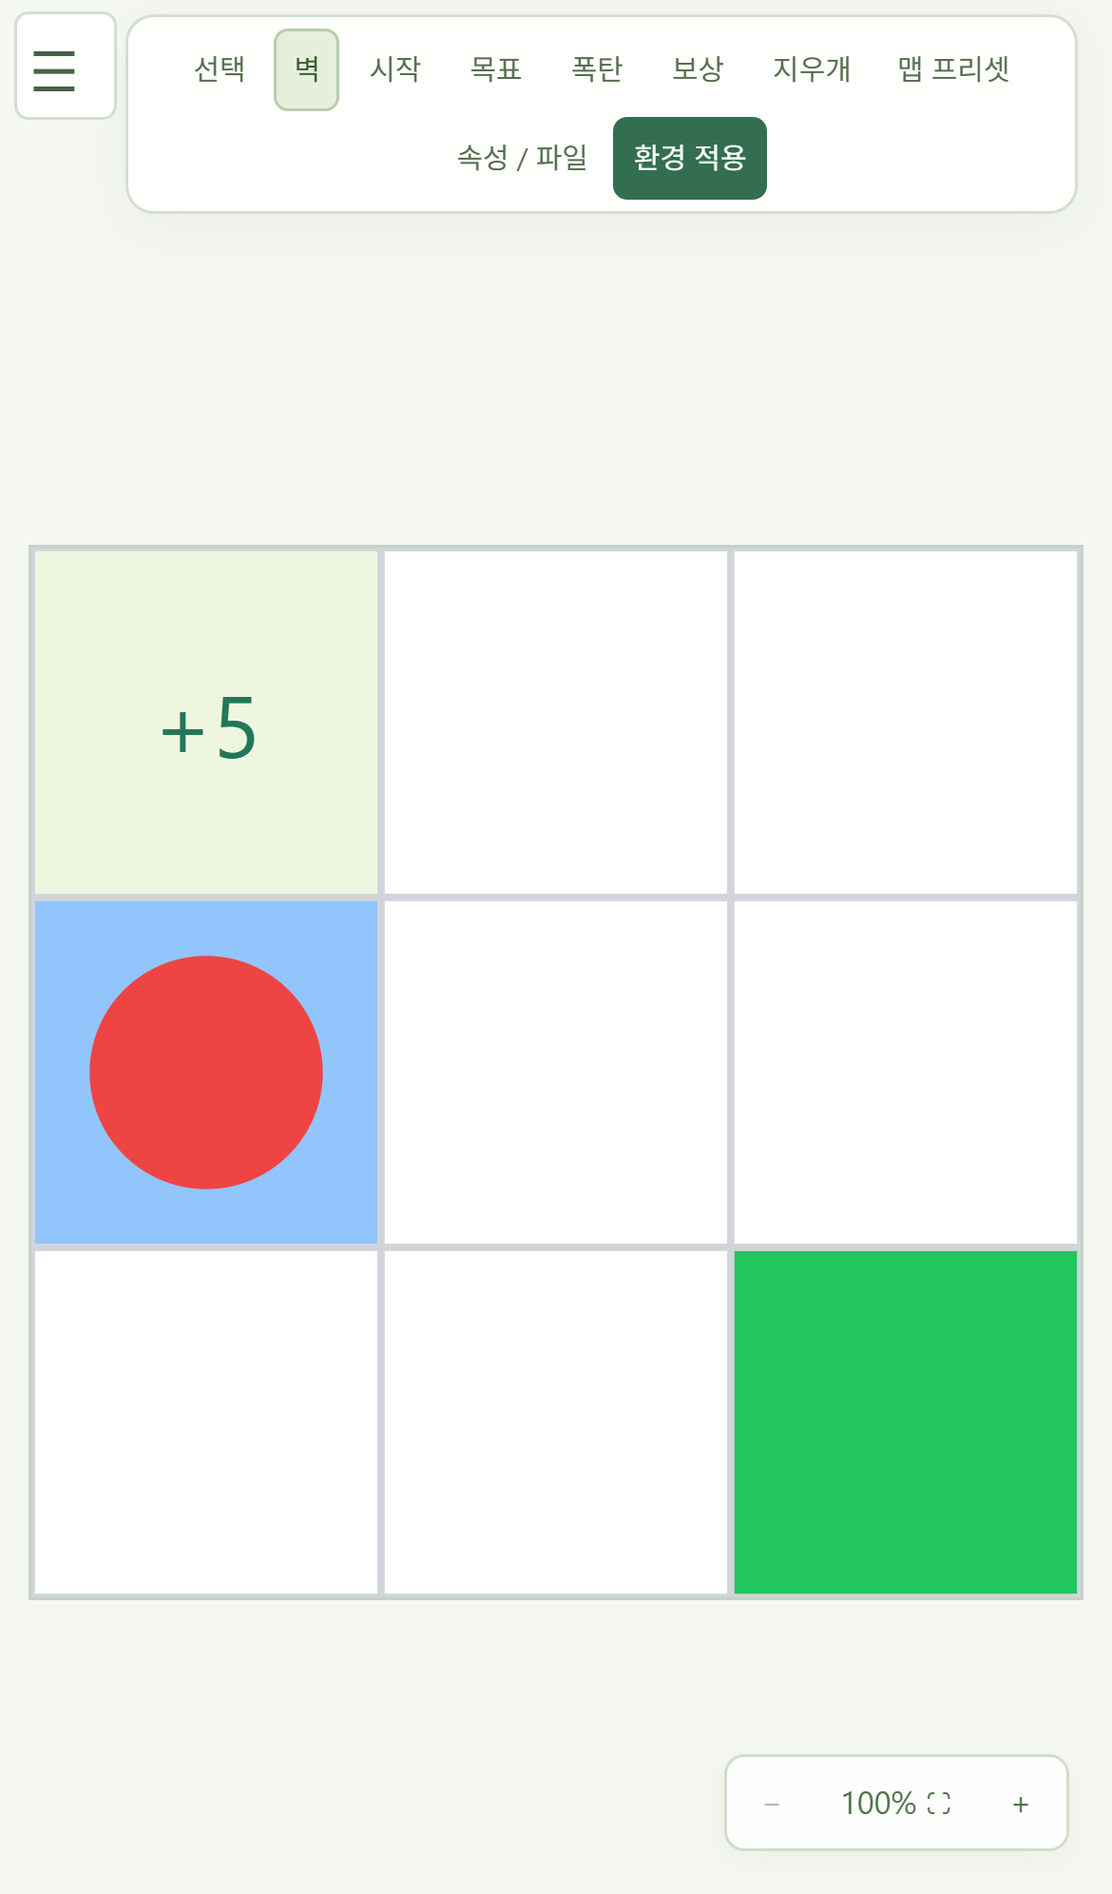
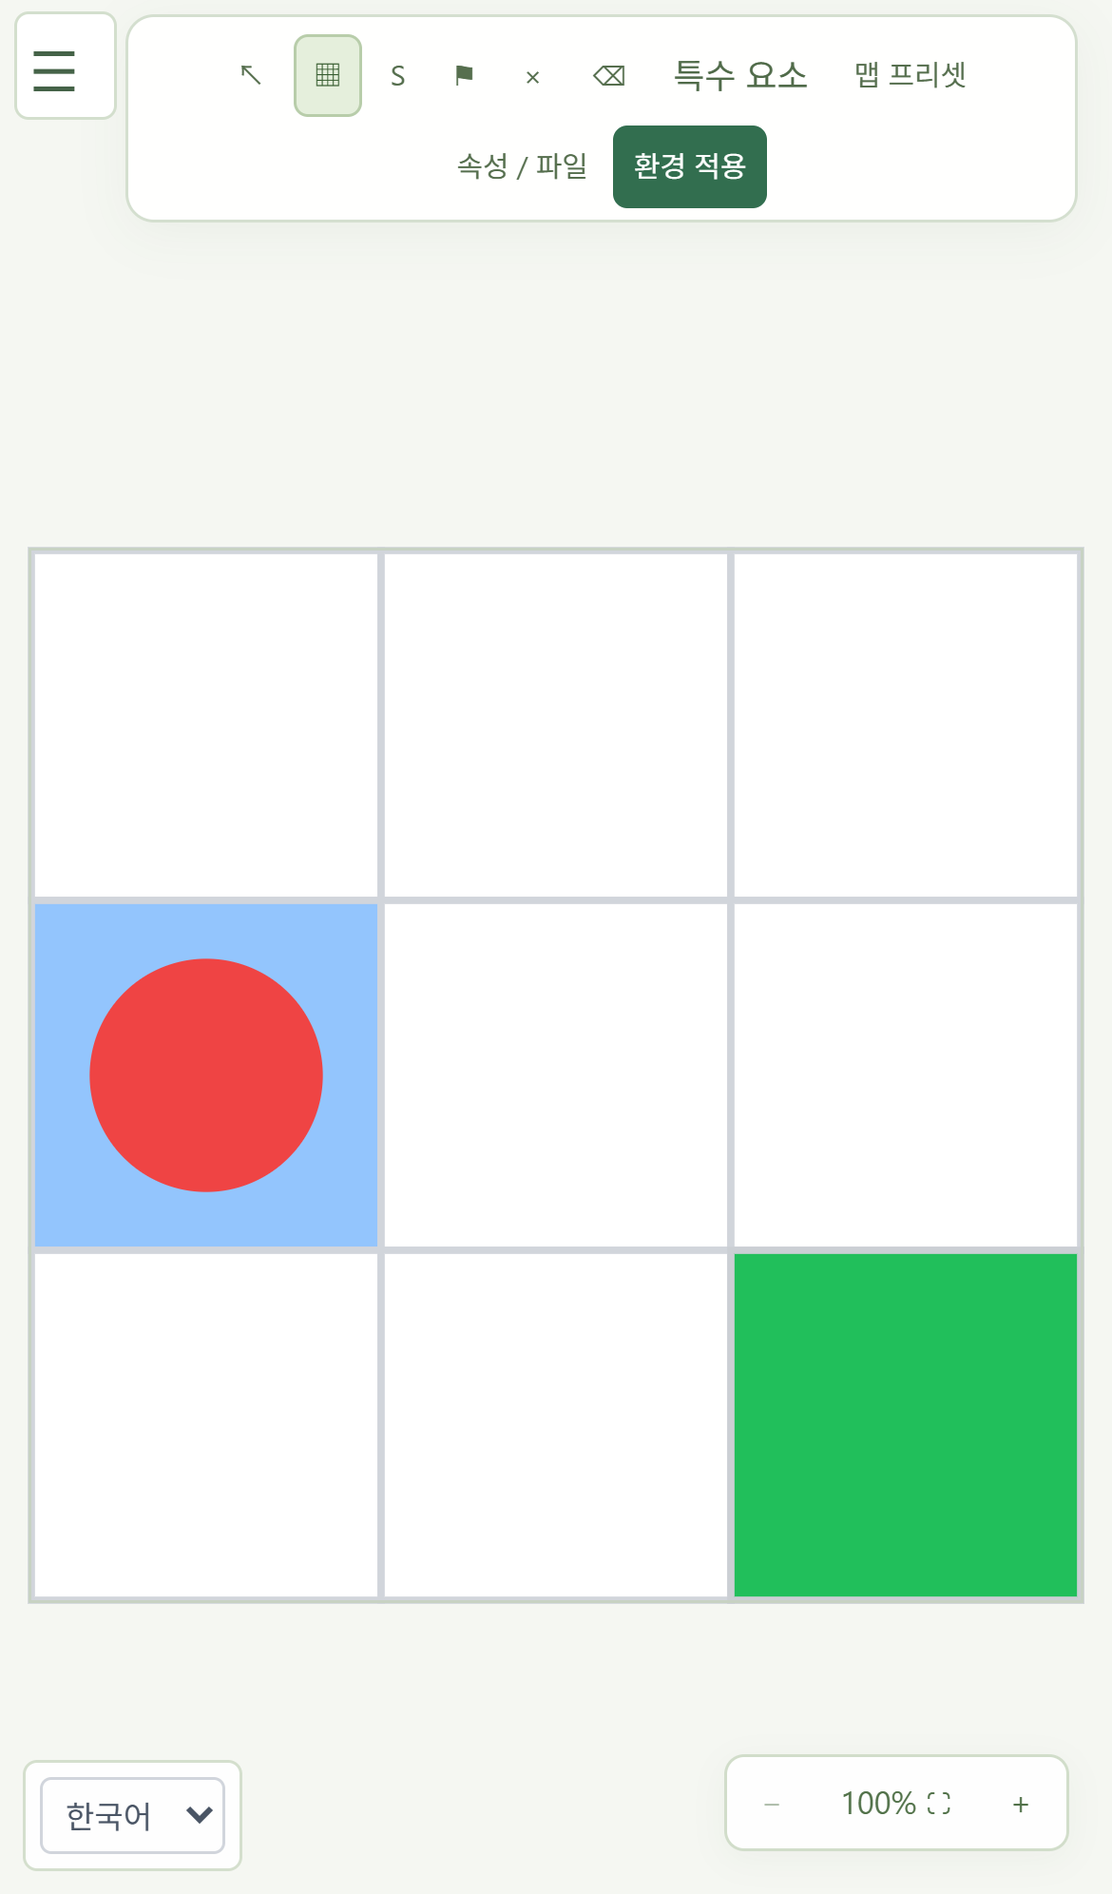
docs: record environment rules validation and browser evidence

diff --git a/docs/ENVIRONMENT_EXPANSION.md b/docs/ENVIRONMENT_EXPANSION.md
@@ -1,0 +1,192 @@
+# 환경 시스템 확장 및 UI 개선
+
+검증일: 2026-10-25. 작업 브랜치: `feat/home-redesign`. 시작 커밋: `d6701f6`.
+기존 React/Vite UI, GridWorldEnv, SimulationEngine/Scheduler 및 Q-Learning/SARSA를 확장했다.
+
+## 1. 전체 변경 사항
+
+- Reward Tile 기능을 제거하고, 해당 데이터가 남아 있는 파일에는 명시적인 오류를 표시한다.
+- 셀 선택은 평면 직각 테두리, 키보드 포커스는 별도의 파란 테두리로 표시한다.
+- 언어 선택기는 데스크톱 사이드바 하단, 모바일 고정 영역에 하나만 표시한다.
+- Portal, One-way, Fragile, Switch/Toggle Wall을 실제 환경 전이부터 편집·저장·학습·시각화까지 연결했다.
+- 기존 11개 프리셋을 보존하고 설계된 신규 프리셋 5개를 추가했다.
+- 전체 화면 격자, 플로팅 실행/편집 툴바, 속도 슬라이더, 확대·축소·내부 패닝, 분석 드로어를 유지한다.
+- 화면·언어 전환 및 패널 토글은 Simulator를 재생성하지 않는다. 학습 상태와 편집 초안은 유지한다. 새 환경 적용은 기존 안내 후 실험을 초기화한다.
+
+주요 변경 파일:
+
+| 영역 | 파일 |
+|---|---|
+| 타입·전이·검증 | `src/core/environments/gridworld/{types.ts,GridWorldEnv.ts,features.ts}`, `src/core/types/render.ts` |
+| 편집·직렬화·프리셋 | `src/viz/controls/{EnvEditor.tsx,envEditorDraft.ts,envEditorIO.ts,MapGallery.tsx,environmentPresets.ts}` |
+| 렌더·정책·가치 | `src/viz/grid/{GridSvg.tsx,FeatureOverlay.tsx,stateKey.ts,visibleQEntries.ts,PolicyOverlay.tsx,ValueHeatmap.tsx}`, `src/viz/panels/QValueBars.tsx` |
+| 고정 UI·성능 | `src/ui/{App.tsx,i18n.ts}`, `src/ui/hooks/useSimulationEngine.ts`, `src/index.css` |
+| 검증 | 환경 요소별 테스트, `featureEditor.test.tsx`, `expandedPresets.test.ts`, `dynamicState.test.tsx`, `src/test/solveGrid.ts`, `e2e/home.spec.ts` |
+
+## 2. Reward Tile 제거
+
+`GridWorldConfig.rewardTiles`, 보상 합산, 렌더 모델의 `cellRewards`, 타일 SVG, 편집 도구·수치 입력·초안·export 필드를 제거했다. 이전 보고서의 전용 기능 설명과 오래된 스크린샷도 갱신했다.
+
+`rewardTiles`라는 문자열이 남는 곳은 호환성 경계와 그 오류 안내/테스트다. 비어 있지 않은 배열이나 잘못된 형식은 엔진 생성 및 JSON import 양쪽에서 거절한다. 빈 배열은 허용하지만 다시 내보내지 않는다. 조용히 삭제하거나 Goal로 변환하지 않는다.
+
+Goal의 기존 수집·보상 분기는 유지했다. 여러 Goal, 최초 방문 보상 1회, 수집 후 숨김, 모든 Goal 수집 시 정상 종료, 새 에피소드 복원 및 `goalReward/stepReward/wallPenalty/bombPenalty`를 보존했다. Goal 비트 연산만 BigInt로 바꾸어 32개를 넘는 기존 맵에서도 비트가 겹치지 않게 했다.
+
+## 3. UI 변경 전후
+
+### 셀 선택
+
+기존 SVG 선택 테두리에 브라우저의 SVG focus outline이 함께 나타나고, 확대 배율에 따라 stroke가 커질 수 있었다. 해당 SVG 셀의 native outline을 제거하고 선택 사각형에 `rx=0`, `strokeWidth=2.5`, `vectorEffect="non-scaling-stroke"`를 적용했다. 키보드 `:focus-visible`에는 파란색 2px 비확대 stroke를 남겼다. 일반 입력·버튼의 포커스 표시는 유지한다. hover는 약한 밝기 변화만 사용한다.
+
+### 언어 선택
+
+상단 중복 선택기를 제거했다. 데스크톱 사이드바는 flex column이며 선택 영역에 `margin-top:auto`를 적용하고 메뉴 영역만 필요 시 스크롤한다. 축소 상태에서도 작은 선택기를 사용할 수 있다. 모바일은 왼쪽 아래 고정 선택기를 사용하고, 사이드바 드로어가 열리면 드로어 내부 선택기만 보인다. 어느 화면에서도 실제 보이는 선택기는 하나다. 다섯 메뉴·사이드바 축소·한국어/영어 전환을 브라우저에서 확인했다.
+
+### 편집기
+
+기본 도구는 접근성 이름이 있는 아이콘으로 유지한다. 추가 도구는 ‘특수 요소’ 팝오버에 모으고, 속성 영역에서 Portal ID, 그룹 ID, 방향을 지정한다. 선택한 포털/그룹의 연결을 점선으로 표시한다. 다른 ID는 색상과 텍스트로 구분한다. ID는 영문 대소문자·숫자·밑줄·하이픈 1–24자다.
+
+배치·삭제·ID/방향 변경, 키보드 셀 선택 및 적용/다운로드를 지원한다. 불완전한 포털이나 그룹은 초안으로 남지만 적용·내보내기는 막는다. 크기를 줄이면 범위 밖 요소를 자르되 남은 불완전 연결을 임의로 복구하지 않고 오류로 알린다. 진행 중 동적 벽을 고정 벽으로 저장하지 않도록 초안은 초기 `staticWalls`와 `features`에서 생성한다.
+
+## 4. 환경 요소의 정확한 규칙
+
+| 요소 | 전이 및 복원 |
+|---|---|
+| Portal | 고유 ID와 정확히 두 끝점. 진입 시 반대 끝점으로 한 번 이동하며 도착점에서 연쇄 발동하지 않는다. 최종 위치가 nextState이며 한 행동의 기본 이동 보상만 계산한다. |
+| One-way | 현재 타일에서 지정 방향으로 떠나는 행동만 허용한다. 다른 방향은 제자리와 wallPenalty. 외부에서 진입하는 방향은 제한하지 않는다. 영구적인 지형이다. |
+| Fragile | 진입 시 통과 가능하다. 실제로 다른 셀로 떠난 뒤 원래 타일이 붕괴한다. 벽·경계 충돌 때는 붕괴하지 않는다. 붕괴 타일 진입은 wallPenalty로 차단하며 에피소드 reset에서 복원한다. |
+| Switch / Toggle Wall | 그룹마다 최소 하나의 스위치와 벽이 필요하다. 기본 닫힘. 스위치로 실제 진입할 때만 그룹이 반전된다. 제자리 충돌은 반전하지 않고, 나갔다 재진입하면 다시 반전한다. 여러 스위치·벽과 독립 그룹을 지원한다. reset에서 모두 닫힌다. |
+
+특수 요소와 다른 특수 요소, Start, Goal, 고정 Wall, Bomb의 좌표 중복을 거절한다. 따라서 스위치에 선 에이전트의 셀에 토글 벽이 닫히지 않는다. 열린 벽·닫힌 벽, 멀쩡한 바닥·붕괴 바닥은 평면 색상/기호로 구분하며 과도한 파편 애니메이션은 없다.
+
+새 요소 자체는 종료 조건이 아니다. 정상 완료는 모든 Goal 수집이고, 기존 Bomb 실패 종료 및 기존 엔진 종료 조건은 유지한다.
+
+## 5. Markov 상태 및 상태 공간
+
+정적 맵(Portal/One-way만 있는 맵 포함)은 기존 `x,y,goalMask` 형식을 유지한다. goalMask는 Goal 배열 순서의 비트이며 십진 문자열이다.
+
+Fragile 또는 Toggle Wall이 있으면 `x,y,goalMask,fragileMask,toggleMask`다. 뒤의 두 마스크는 BigInt 16진 문자열이다. Fragile 비트는 초기 배열 순서, 그룹 비트는 고유 그룹 ID의 정렬 순서다. 같은 위치라도 수집 Goal·붕괴 바닥·열린 벽이 다르면 다른 Q-table 행이다. 마스크 순서는 환경 인스턴스 동안 고정이다.
+
+Q-Learning/SARSA의 업데이트 규칙은 변경하지 않았다. 정책·가치·Q-value 패널은 위치 뒤의 전체 상태 suffix를 사용한다. 렌더 모델도 같은 에피소드의 수집/붕괴/그룹 상태를 투영한다. reset은 세 동적 집합을 모두 초기화한다.
+
+상태 공간의 보수적인 이론 상한:
+
+`width × height × 2^(Goal 수 + Fragile 수 + 고유 Toggle Wall 그룹 수)`
+
+도달 불가능한 조합도 포함하므로 실제 방문 상태 수와는 다르다. Portal·고정 One-way에는 추가 상태 비트가 필요하지 않다. 동적 맵은 상한 **262,144**를 넘으면 적용·import·엔진 생성에서 거절하고 편집기에 계산값과 제한을 표시한다. 기존 정적 맵에는 이 제한을 새로 적용하지 않는다. UI 맵 편집 크기 범위 3–20은 유지한다.
+
+정책·가치 렌더는 누적 Q-table 전체를 순회하지 않고 현재 상태 suffix에 해당하는 셀만 직접 조회한다(최대 width×height). `useSimulationEngine`의 최초 snapshot도 실제 최초 렌더에서만 생성하여 재렌더 때 불필요한 전체 복사를 줄였다.
+
+## 6. 전이 우선순위
+
+1. 현재 위치와 행동을 받고 One-way 출발 제한을 확인한다.
+2. 경계, 일반 벽, 닫힌 그룹 벽, 붕괴 바닥을 확인한다.
+3. 진입 가능한 Portal이면 반대 끝점으로 한 번만 이동한다.
+4. 기존 Goal/Bomb/일반 이동 보상 분기로 최종 위치와 보상을 결정한다.
+5. 실제 위치가 달라졌으면 출발 Fragile을 붕괴시키고 도착 Switch 그룹을 반전한다.
+6. Goal·붕괴·그룹 상태를 모두 반영한 nextState를 만든 뒤 종료를 판단한다.
+
+기존 Goal 코드를 재작성하지 않기 위해 권장 순서의 보상 분기를 앞에 유지했다. 요소 중복을 금지하므로 이 순서 차이는 보상이나 지형 결과를 바꾸지 않는다. 막힌 행동에는 Portal·붕괴·Switch가 발동하지 않는다. Portal의 양 끝점은 다른 요소와 겹치지 않아 도착점의 추가 효과도 없다.
+
+## 7. JSON 스키마 및 호환성
+
+새 export는 `version:2`, `type:"gridworld"`이며 기존 좌표·보상 필드를 보존한다. 추가 필드는 다음과 같고 비어 있으면 생략한다.
+
+```json
+{
+  "portals": [{"id":"P1","ends":[{"x":1,"y":1},{"x":4,"y":4}]}],
+  "oneWays": [{"x":2,"y":1,"direction":1}],
+  "fragiles": [{"x":3,"y":1}],
+  "switches": [{"x":2,"y":2,"groupId":"G1"}],
+  "toggleWalls": [{"x":3,"y":2,"groupId":"G1"}]
+}
+```
+
+위 예시는 추가 필드의 모양만 나타낸다. direction은 기존 엔진 행동 순서인 `0=위, 1=아래, 2=왼쪽, 3=오른쪽`이다. 기존 version 1 맵은 새 요소가 없으면 불러오며, 새 요소가 든 version 1은 version 2가 필요하다고 알린다. 누락된 선택 필드는 기존 기본값을 적용한다. 잘못된 좌표·방향·ID·중복·쌍·연결·상태 공간을 검증한 뒤 전체 초안을 교체한다. 잘못된 import는 기존 환경/초안을 부분 변경하지 않는다.
+
+JSON은 초기 맵만 저장한다. 수집 Goal, 붕괴 진행, 열린 그룹, Q-table, 학습 이력은 저장하지 않는다. 진행 중 환경에서 편집기를 열어도 초기 요소 구성을 복원하며, export/import 의미 동등성을 테스트했다. Reward Tile 호환성 규칙은 2절과 같다.
+
+## 8. 신규 프리셋 및 해결 검증
+
+기존 `basic`, `corridor`, `maze`, `bombField`, `multiGoal`, `treasureHunt`, `obstacleCourse`, `complexMaze`, `deadEndMaze`, `multipleRoute`, `riskyPath`의 11개 ID와 구성을 유지했다.
+
+| 신규 프리셋 | 크기 | 핵심 설계 | 이론 상한 | BFS 완료 행동 수 |
+|---|---|---|---:|---:|
+| Portal Maze | 7×7 | 전체 높이의 장벽을 포털로 넘는다 | 98 | 4 |
+| One-way Labyrinth | 7×5 | 복도의 오른쪽 방향 제약을 따른다 | 70 | 6 |
+| Fragile Bridge | 7×5 | 떠난 뒤 돌아갈 수 없는 다리, 실패 탐험의 Bomb 탈출 지점 | 2,240 | 6 |
+| Switch Puzzle | 7×5 | 스위치로 장벽을 열어 통과하고 다음 스위치로 상태를 바꾼다 | 140 | 6 |
+| Mixed Challenge | 9×7 | 포털·스위치·Fragile·One-way·그룹 벽을 순서대로 거친다 | 504 | 7 |
+
+갤러리에 한국어/영어 이름·특징·난이도·주요 요소·크기와 실제 GridSvg 미리보기를 제공한다. 미리보기 선택만으로 실험을 바꾸지 않으며 적용은 명시적이다.
+
+`src/test/solveGrid.ts`는 실제 GridWorldEnv를 생성하고 행동 경로를 재생하는 BFS다. 위치뿐 아니라 전체 상태 키를 방문 집합으로 사용하고, Bomb 종료는 성공으로 취급하지 않으며 모든 Goal 완료를 확인한다. 신규 5종 모두 통과했다. 이는 해결 경로 존재 검증이며 학습 알고리즘의 수렴 보장은 아니다.
+
+## 9. 테스트·빌드·브라우저 결과
+
+| 명령 | 결과 |
+|---|---|
+| `npm run lint` | 통과 |
+| `npm test` | 54개 파일, 1,020개 테스트 통과, 17.68초 |
+| `npm run build` | TypeScript 및 Vite production build 통과 |
+| `npm run test:e2e` | Edge desktop/mobile 18개 통과, skip 없음, 43.3초 |
+| `git diff --check` | 통과 |
+
+작업 시작 시 934개에서 현재 1,020개로 증가했다. 삭제한 테스트는 `rewardTiles.test.ts`의 아래 6개뿐이다. 사라진 기능의 동작을 강제하므로 제거하고, `retiredRewardCompatibility.test.ts`의 명시적 거절/빈 필드 호환성 6개로 대체했다.
+
+1. Reward Tile 진입·재진입 보상 및 충돌.
+2. 음수 타일 보상.
+3. Reward Tile의 Q-Learning 업데이트.
+4. Reward Tile의 SARSA 업데이트.
+5. Reward Tile 편집 초안/JSON 왕복.
+6. Reward Tile 배치 검증.
+
+그 외 기존 테스트는 제거하지 않았다. 기본 도구가 아이콘이 되면서 Bomb 관련 UI assertion은 접근성 label로 갱신했다. 기존 프리셋 검사도 신규 맵은 동적 BFS를 사용하도록 확장했다.
+
+추가 검증은 양방향 Portal/한 번 발동, 방향 제약과 페널티/Q 업데이트, Fragile 충돌·붕괴·복원, 그룹 재진입·독립성·닫힘/열림, 다중 Goal/알고리즘, 상태별 Q 분리/정책·가치 조회, 잘못된 import 및 연결, 편집 초안 보존을 포함한다.
+
+실제 로컬 Microsoft Edge와 모바일 터치/화면 에뮬레이션으로 **1366×768, 1440×900, 1920×1080, 768×1024, 390×844**를 검사했다. 각 크기에서 3×3, 20×20, 3×20, 20×3 맵의 전체 맞춤·중앙 정렬·정사각 셀·툴바 비중첩·본문 overflow 없음, 사이드바/분석 패널 전환, 확대/내부 패닝을 확인했다. 동적 상태를 만든 뒤 일시정지·언어·화면 전환 보존과 중단 시 에피소드 복원도 확인했다.
+
+GitHub Pages base `/RL-Playground/`를 그대로 사용한 preview에서 E2E를 실행했다. 배포 workflow는 기존 main push/manual trigger 구성 그대로이며 Production 배포를 실행하지 않았다.
+
+### 실제 고속 실행·메모리 표본
+
+20×20, Goal 1개, Fragile 5개, 그룹 3개, 네 종류 요소를 함께 둔 맵에서 이론 상한은 204,800이다. ε=0.3, batch 100/frame의 고속 모드로 **3초** 실행한 뒤 Pause, Stop, 10회 편집/학습 화면 왕복을 측정했다. 측정 전 및 Stop/왕복 후에는 CDP로 GC를 요청했다. Pause 시 값은 GC 전이다.
+
+| 바이트 | Desktop | Mobile 에뮬레이션 |
+|---|---:|---:|
+| 실행 전 GC 후 | 5,622,856 | 5,682,816 |
+| 3초 실행 후 Pause, GC 전 | 26,649,808 | 33,754,928 |
+| Stop 후 GC | 6,936,800 | 6,971,040 |
+| 화면 10회 왕복 후 GC | 6,589,756 | 6,673,220 |
+| 표본 중 완료 에피소드 | 0 | 0 |
+
+Pause/Stop은 응답했고 예외는 없었다. Stop은 학습 Q-value를 보존하므로 초기 값과 동일한 메모리로 돌아오지는 않는다. 이 표본에서는 화면 왕복 후 GC 값이 증가하지 않았다. 실행 중 할당 증가와 GC 후 보존량을 구분해야 하며, 3초 표본만으로 장시간 누수 없음·프레임률 보장·학습 수렴을 주장하지 않는다. 원시 표본은 E2E의 `DYNAMIC_MEMORY_SAMPLE` 출력과 test-results attachment로 생성된다.
+
+## 10. 브라우저 스크린샷
+
+아래 파일은 위 테스트 실행 중 실제 브라우저에서 생성했다. 기존 전체 화면 보고서의 캡처도 최신 화면으로 교체했다.
+
+- [새 요소 편집: 데스크톱](screenshots/environment-editor-desktop.png), [모바일](screenshots/environment-editor-mobile.png)
+- [실제 붕괴·포털·스위치 상태: 데스크톱](screenshots/environment-dynamic-desktop.png), [모바일](screenshots/environment-dynamic-mobile.png)
+- [16개 프리셋 갤러리](screenshots/environment-gallery.png)
+- [직각 선택 테두리·하단 언어 선택](screenshots/environment-selection.png)
+- 화면 크기별 격자: [1366×768](screenshots/environment-1366x768.png), [1440×900](screenshots/environment-1440x900.png), [1920×1080](screenshots/environment-1920x1080.png), [768×1024](screenshots/environment-768x1024.png), [390×844](screenshots/environment-390x844.png)
+
+## 11. 알려진 한계
+
+- 임의 편집 맵의 해결 가능성은 적용 조건으로 강제하지 않는다. 프리셋은 BFS 검증했지만, 사용자는 Fragile을 잘못 지나 Goal로 갈 수 없게 만들 수 있다. 중단/에피소드 초기화 또는 맵 수정이 필요할 수 있다.
+- 동적 맵의 상태 공간 상한은 안전 예산이며 실제 메모리 한도를 보증하지 않는다. Q-table·에피소드 이력·현재 trajectory는 장시간 학습에서 누적될 수 있다. 장시간 heap/프레임 프로파일링은 수행하지 않았다.
+- 모바일은 Edge 기반 에뮬레이션 검증이다. 물리 iOS/Safari/Android 기기 검증은 하지 않았다.
+- 상태 보존은 현재 세션의 화면·패널·언어 전환 범위다. 새로고침 후 실험 복원이나 Q-table export는 이번 범위가 아니다.
+- 작은 모바일 화면의 20×20 셀은 작다. 정밀 편집에는 확대 및 내부 패닝을 사용한다.
+- 기존 전체 화면 구조를 유지했으며 요청 외 지형(예: 미끄러움)은 추가하지 않았다.
+
+## 12. Git 결과
+
+작업 전 fetch로 원격 `feat/home-redesign`의 최신 상태를 확인했고 기존 브랜치에서 이어서 작업했다.
+
+- `eca021b` — Reward Tile 제거, 호환성 오류, 셀 선택과 고정 언어 UI 정리.
+- `aaf29c9` — 동적 환경 전이·상태·편집·JSON·렌더, 프리셋 5종 및 통합/E2E 테스트.
+- 이 보고서와 실제 스크린샷은 별도의 문서 커밋으로 기록한다.
+
+푸시 대상은 `origin/feat/home-redesign`이다. 코드 커밋 원격 반영을 확인했으며 문서 커밋까지 같은 브랜치에 푸시한다. 최종 HEAD/원격 일치 결과는 작업 최종 응답에 기록한다. main은 시작 시의 `987db7b0d9cf7f3ada6c735133ac30c0149dee1c`를 보존하며 병합·Production 배포·수동 배포 workflow 호출은 하지 않는다.

diff --git a/docs/FULLSCREEN_WORKSPACE.md b/docs/FULLSCREEN_WORKSPACE.md
@@ -75,7 +75,7 @@
   정사각 셀, 툴바 비중첩, 브라우저 가로·세로 스크롤 부재.
 - 사이드바·분석·속성 패널 변경 후 재맞춤, 확대·내부 패닝·전체 맞춤 복귀.
 - 20×20 고속 학습 후 일시정지·중단 응답 및 학습된 정책 보존.
-- 기본 정책/가치 활성화, 실제 보상 타일의 학습 보상, 셀 선택·실험 상태·초안 보존.
+- 기본 정책/가치 활성화, 셀 선택·실험 상태·초안 보존.
 - 11개 프리셋 미리보기·선택·적용, 홈 자동 이동, 모션 감소, 키보드 진입.
 - 옵저버·타이머 정리와 속도 모드 변경 시 오래된 콜백 무효화.
 
@@ -94,7 +94,7 @@ Production 배포와 main 병합은 수행하지 않았다.
 
 ## 제한 사항
 
-- 새 환경 요소는 보상 타일 1종을 완료했다. 포털·미끄러움·단방향은 미구현이다.
+- 최신 환경 요소, 제거된 기능 및 검증은 [환경 시스템 확장 보고서](ENVIRONMENT_EXPANSION.md)를 참고한다. 미끄러움 타일은 이번 범위에 포함하지 않았다.
 - 모바일은 Edge 터치/화면 에뮬레이션이며 실제 iOS/Safari/Android 기기는 검증하지 않았다.
 - 20×20 고속 실행의 단기 응답성을 확인했으며 장시간 메모리·프레임 성능 프로파일링은 하지 않았다.
   기존 학습 이력은 계속 메모리에 누적된다.
